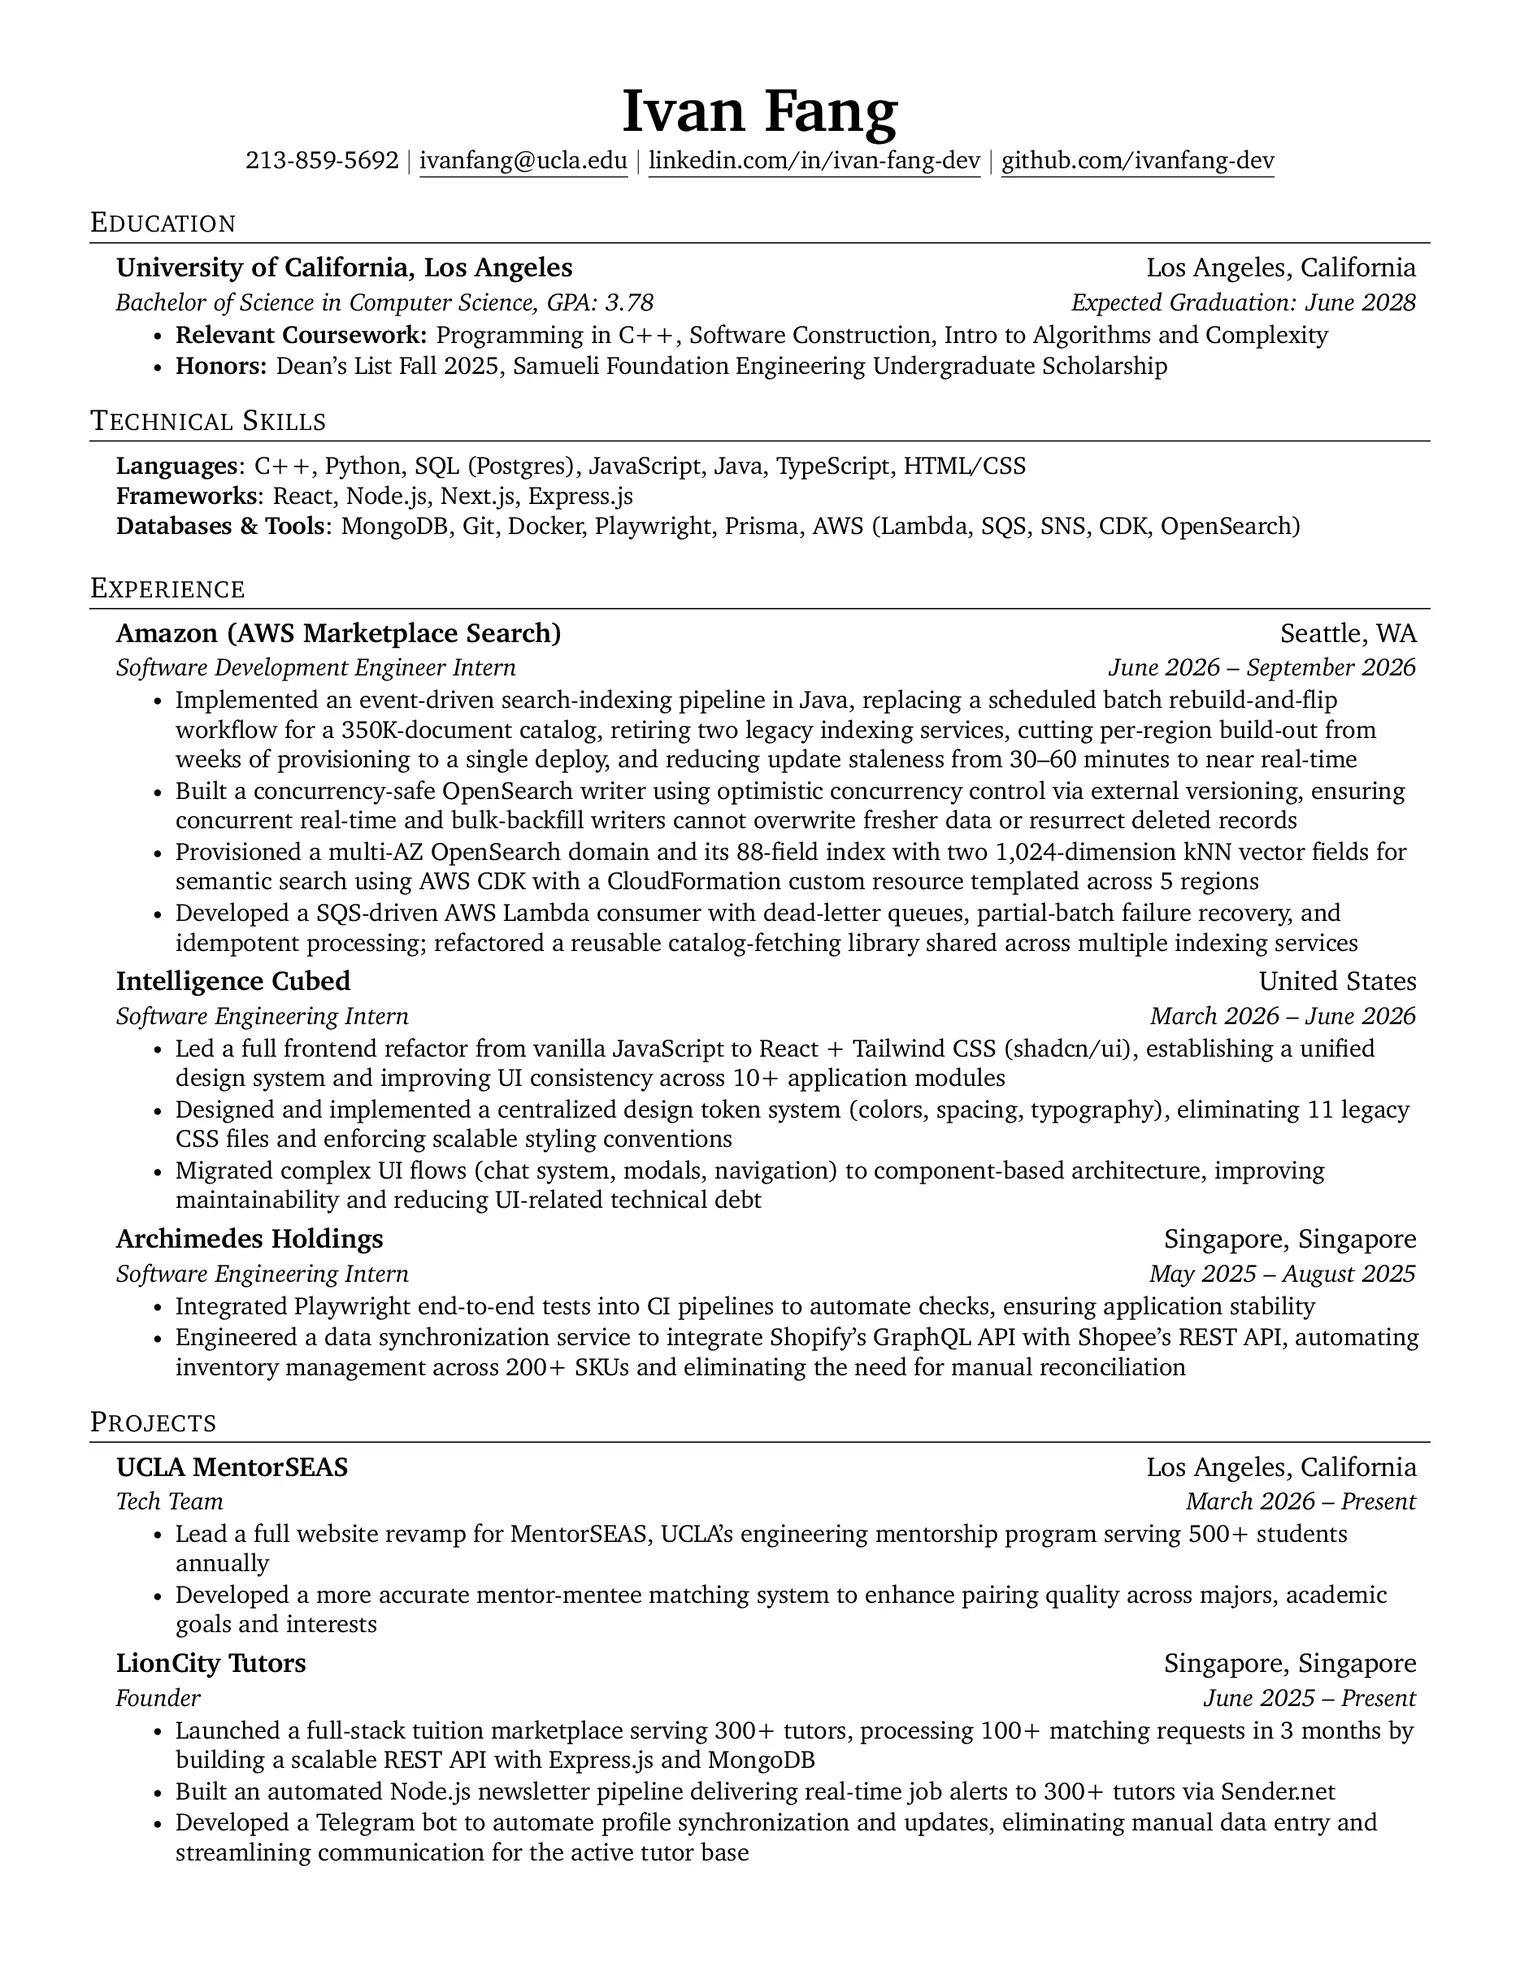
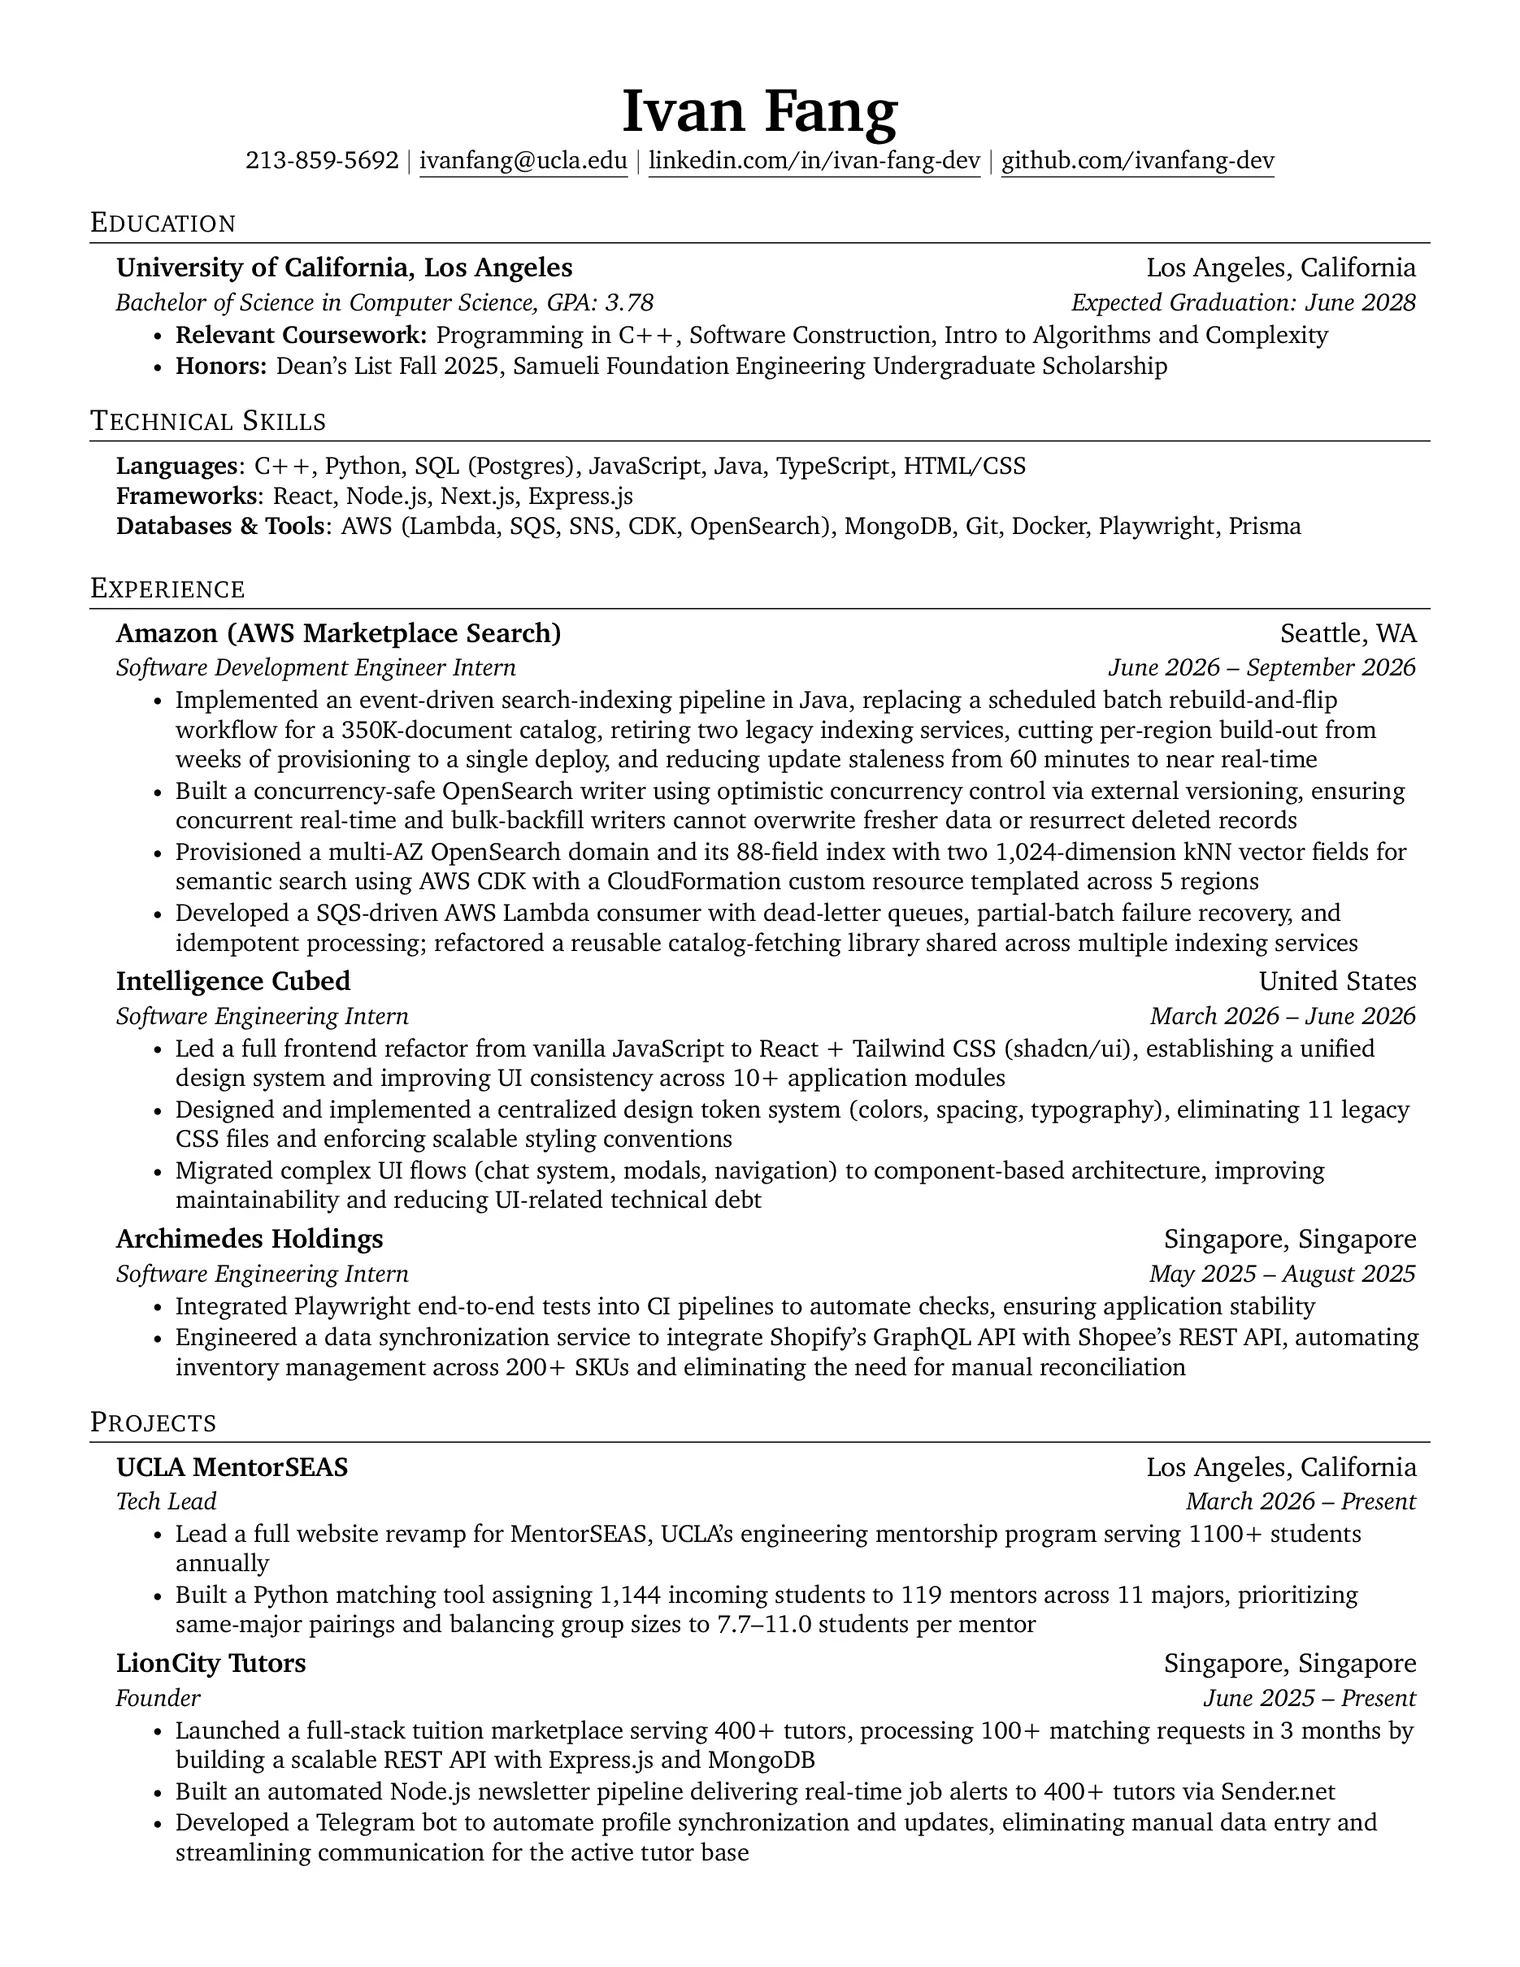
Update resume and sync the site's Experience and Projects to it
- New resume PDF and regenerated on-page preview.
- Amazon: update staleness is "60 minutes", not "30–60 minutes".
- MentorSEAS: Tech Lead (was Tech Team); program serves 1,100+ students
  (was 500+); add the Python matching tool (1,144 students to 119 mentors
  across 11 majors) and Python to its tags.
- LionCity: 400+ tutors, matching the hero and the resume.

Changed region(s): [[0.1237, 0.7753, 0.8967, 0.8373], [0.2164, 0.2481, 0.8658, 0.2791], [0.6803, 0.3721, 0.8967, 0.4032]]

diff --git a/src/components/sections/Experience.tsx b/src/components/sections/Experience.tsx
@@ -26,7 +26,7 @@ const entries: TimelineEntry[] = [
     title: 'Software Development Engineer Intern',
     organization: 'Amazon (AWS Marketplace Search)',
     period: 'Jun 2026 – Sep 2026',
-    description: `Implemented an event-driven search-indexing pipeline in Java for a 350K-document catalog, retiring two legacy indexing services and cutting update staleness from 30–60 minutes to near real-time.
+    description: `Implemented an event-driven search-indexing pipeline in Java for a 350K-document catalog, retiring two legacy indexing services and cutting update staleness from 60 minutes to near real-time.
     Built a concurrency-safe OpenSearch writer using optimistic concurrency control, so concurrent real-time and bulk-backfill writers cannot overwrite fresher data or resurrect deleted records.
     Provisioned a multi-AZ OpenSearch domain with kNN vector fields for semantic search using AWS CDK, templated across 5 regions.
     Developed a SQS-driven AWS Lambda consumer with dead-letter queues, partial-batch failure recovery, and idempotent processing.`,
@@ -47,7 +47,7 @@ const entries: TimelineEntry[] = [
     period: 'Jun 2025 – Present',
     description: `Built and launched a full-stack tuition-matching platform, processing over 100 matching requests within the first three months.
     Developed backend APIs using Express.js and MongoDB to handle tutor registration and parent requests.
-    Engineered a Telegram bot to automate tutor profile updates, streamlining communication for 300+ active tutors.`,
+    Engineered a Telegram bot to automate tutor profile updates, streamlining communication for 400+ active tutors.`,
   },
   {
     id: 'software-engineering-intern',
@@ -100,8 +100,8 @@ const education: EducationEntry[] = [
       },
       {
         org: 'MentorSEAS',
-        role: 'Tech Team',
-        summary: 'Led the full site revamp for the program that onboards 500+ new engineers each year.',
+        role: 'Tech Lead',
+        summary: 'Leading the full site revamp for the program serving 1,100+ engineering students each year, and built the Python tool that matched 1,144 incoming students to 119 mentors.',
         links: [{ label: 'mentorseas.seas.ucla.edu', href: 'https://mentorseas.seas.ucla.edu/' }],
       },
     ],

diff --git a/src/components/sections/Projects.tsx b/src/components/sections/Projects.tsx
@@ -13,10 +13,10 @@ const projects: Project[] = [
     id: 'ucla-mentorseas',
     title: 'UCLA MentorSEAS',
     description: `The mentorship program pairing every incoming UCLA engineer with an upperclassman:
-    • Led a full site revamp for the 500+ students it onboards each year
-    • Building a matching system that pairs on major, academic goals and interests
-    • Shipped as part of the MentorSEAS tech team`,
-    technologies: ['React', 'Next.js', 'Tailwind'],
+    • Leading a full site revamp for the program, which serves 1,100+ students each year
+    • Built a Python matching tool that paired 1,144 incoming students with 119 mentors across 11 majors
+    • Tech Lead of the MentorSEAS tech team`,
+    technologies: ['React', 'Next.js', 'Tailwind', 'Python'],
     image: `${import.meta.env.BASE_URL}MentorSEAS.webp`,
     links: {
       demo: 'https://mentorseas.seas.ucla.edu/',
